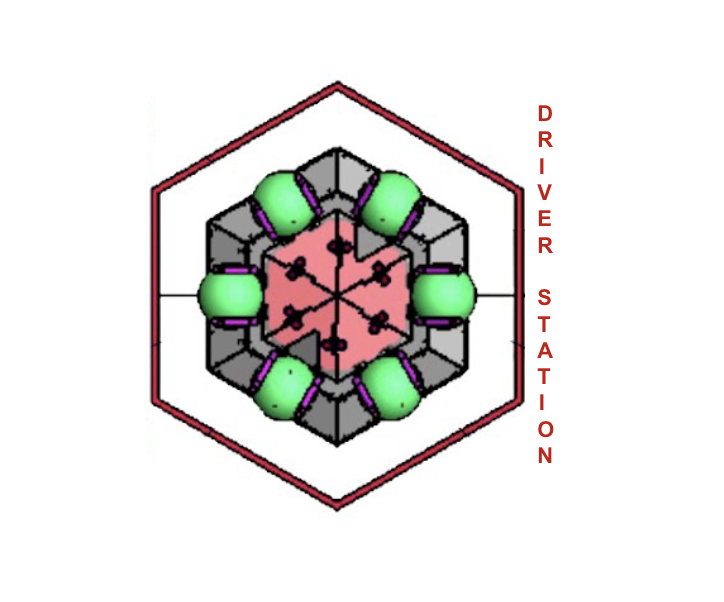
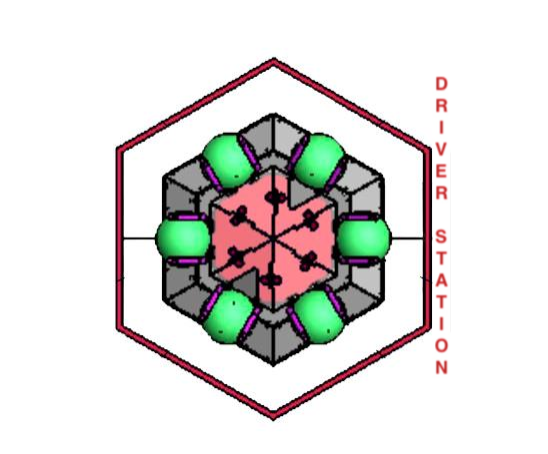
flipped reef images and updated login/profile endpoints

Changed region(s): [[0.1861, 0.1233, 0.8376, 0.9251]]

diff --git a/screens/Profile.js b/screens/Profile.js
@@ -89,9 +89,9 @@ const AllianceMeter = ({ redMatches, blueMatches }) => {
 const Profile = ({ route }) => {
  const navigation = useNavigation();
  const [firstName, setFirstName] = useState('');
- const totalMatches = 420; // Total matches (arbitrary value)
- const redMatches = 1; // Red Alliance matches (arbitrary value)
- const blueMatches = 1; // Blue Alliance matches (arbitrary value)
+ const totalMatches = 4; // Total matches (arbitrary value)
+ const redMatches = 50; // Red Alliance matches (arbitrary value)
+ const blueMatches = 100; // Blue Alliance matches (arbitrary value)
  const currentMinutes = (redMatches + blueMatches) * 2.5; // Current minutes as a fraction of totalMatches
 
 
@@ -154,13 +154,13 @@ const Profile = ({ route }) => {
      <View style={styles.progressBarContainer}>
        <CircularProgressBar
          total={100}
-         current={currentMinutes}
+         current={100}
          label="Minutes"
          color="#ff3030"
        />
        <CircularProgressBar
-         total={totalMatches}
-         current={totalMatchesScouted}
+         total={redMatches+blueMatches}
+         current={redMatches+blueMatches}
          label="Matches"
          color={progressBarColor}
        />

diff --git a/screens/loginpage.js b/screens/loginpage.js
@@ -28,18 +28,24 @@ const LoginPage = () => {
         },
         body: JSON.stringify(loginData),
       });
+    const res = await loginResponse.json();
 
+    // console.log(await loginResponse.json())
     if (!loginResponse.ok) {
-      alert('Error registering. Please try again.');
+      alert(res.message);
       return;
     }
 
-    const res = await loginResponse.json();
-    console.log(res);
-    const access_token = res['access_token'];
+    try {
+      const _ = res['access_token'];
+    }
+    catch (error) {
+      alert(res.message);
+    }
     
     try {
       // Store the access token in AsyncStorage
+      const access_token = res['access_token'];
       await AsyncStorage.setItem('ACCESS_TOKEN', access_token);
       console.log('Access token stored successfully');
       navigation.replace('StartPage');
